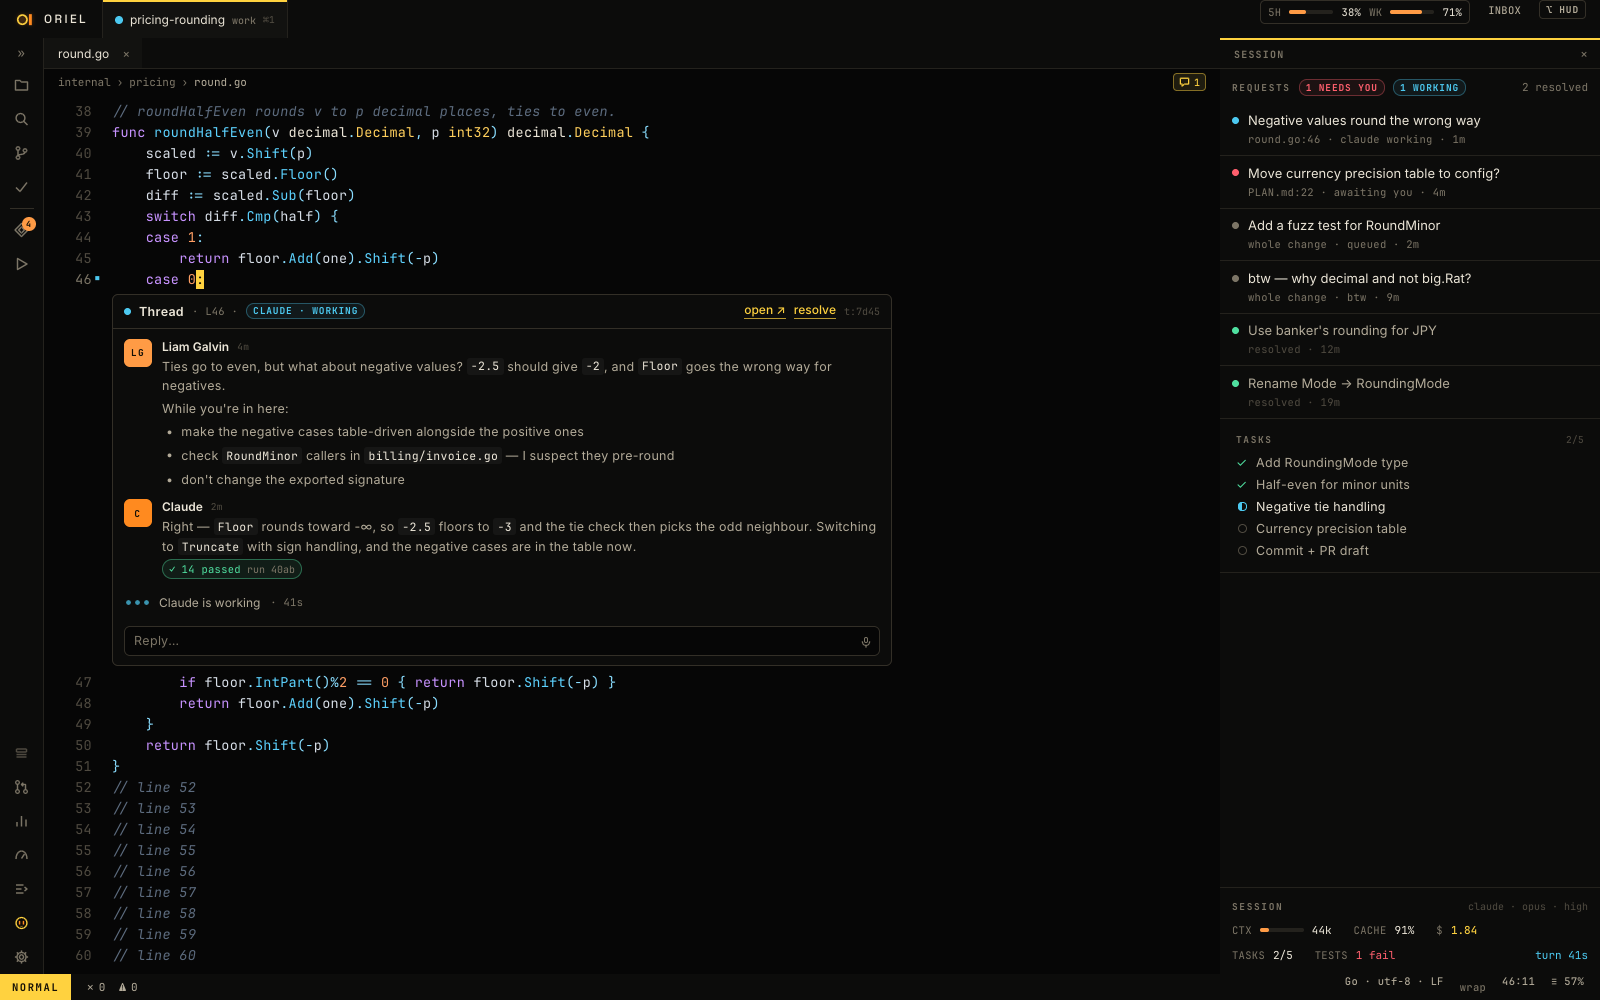
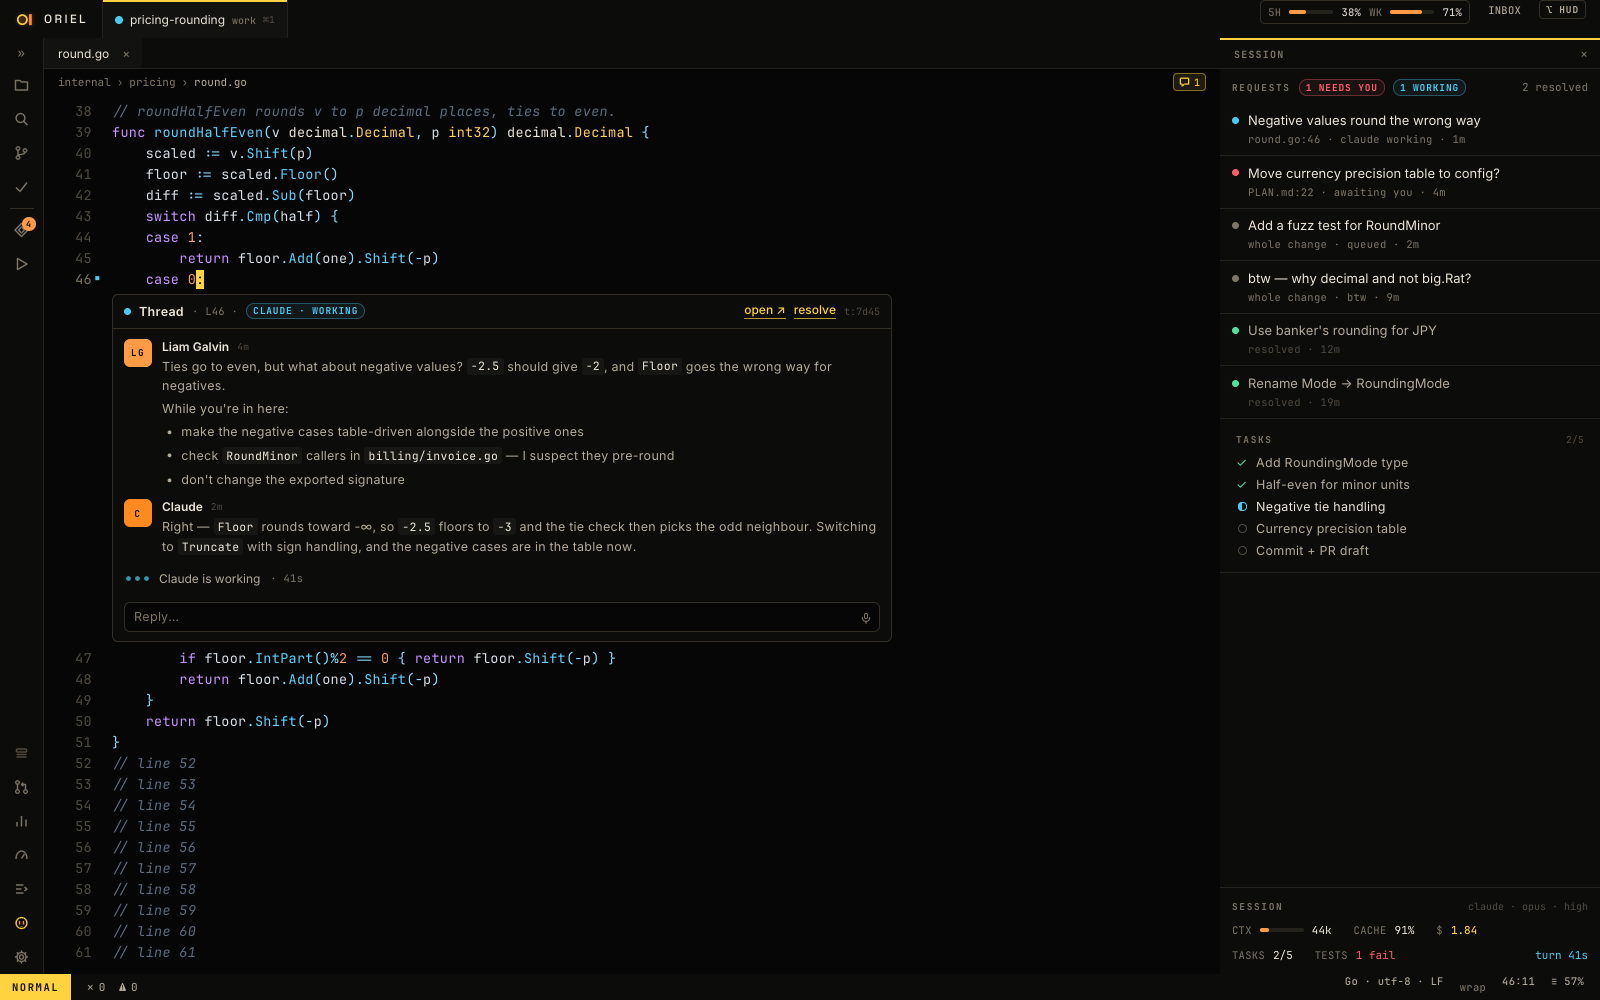
fix(watch): keep Ship fixtures over reads; log failed reads at debug
A Fixture's report was replaced by the next background PR read, and a
source failing on every poll (a session with no GitHub) logged a warning
each time.

Also hold the snapshot tests still: ExplorerScene's inline blame reads a
clock two weeks after its commits rather than the wall clock, and the
ide-thread snapshot drops the run chip request replies no longer show.

Changed region(s): [[0.0625, 0.558, 0.375, 0.961], [0.5312, 0.62, 0.5625, 0.651]]

diff --git a/app/ship/ship.go b/app/ship/ship.go
@@ -89,6 +89,7 @@ type shipReport struct {
 	failed  map[string]string // project → why its last step failed
 	started int               // reads started; a read older than the one last kept is dropped
 	kept    int
+	fixed   bool // a Fixture's: reads don't replace it
 }
 
 func (x *Ship) Manifest() plugin.Manifest { return plugin.Manifest{ID: "ship"} }
@@ -317,8 +318,10 @@ func (x *Ship) reading(id core.SessionID) (*shipReport, int) {
 		r = &shipReport{doing: map[string]string{}, failed: map[string]string{}}
 		x.reports[id] = r
 	}
-	r.loading = true
-	r.started++
+	if !r.fixed {
+		r.loading = true
+		r.started++
+	}
 	return r, r.started
 }
 
@@ -336,6 +339,10 @@ func (x *Ship) readAs(id core.SessionID, r *shipReport, n int, fresh bool) {
 		cancel()
 	}
 	x.mu.Lock()
+	if r.fixed {
+		x.mu.Unlock()
+		return
+	}
 	if n == r.started {
 		r.loading = false
 	}
@@ -747,7 +754,7 @@ func (x *Ship) prChips(se core.SessionState) []registry.Chip {
 type Read = shipRead
 
 // Fixture makes what Ship last read of session id's projects fn of it, loading or not, with no step running or
-// failed: a showcase or a test drawn with no code host.
+// failed, and keeps it over later reads: a showcase or a test drawn with no code host.
 func (x *Ship) Fixture(id core.SessionID, loading bool, fn func([]Read) []Read) {
 	x.mu.Lock()
 	defer x.mu.Unlock()
@@ -755,5 +762,5 @@ func (x *Ship) Fixture(id core.SessionID, loading bool, fn func([]Read) []Read) 
 	if r := x.reports[id]; r != nil {
 		ships = r.ships
 	}
-	x.reports[id] = &shipReport{ships: fn(ships), loading: loading, doing: map[string]string{}, failed: map[string]string{}}
+	x.reports[id] = &shipReport{ships: fn(ships), loading: loading, doing: map[string]string{}, failed: map[string]string{}, fixed: true}
 }

diff --git a/app/apptest/git.go b/app/apptest/git.go
@@ -2,6 +2,9 @@ package apptest
 
 import (
 	"testing"
+	"time"
+
+	"github.com/liamg/oriel/app/editor"
 
 	"github.com/liamg/oriel/gitx/gittest"
 )
@@ -36,10 +39,11 @@ func ExplorerRepo(t *testing.T) *gittest.Repo {
 	return r
 }
 
-// ExplorerScene is the app on ExplorerRepo, its status read.
+// ExplorerScene is the app on ExplorerRepo, its status read, its inline blame's clock two weeks after its commits.
 func ExplorerScene(t *testing.T) (*Scene, *gittest.Repo) {
 	r := ExplorerRepo(t)
 	s := New(t, Options{WorkDir: r.Dir})
+	PluginOf[*editor.GitSigns](s, "gitsigns").Now = func() time.Time { return r.When.Add(14 * 24 * time.Hour) }
 	s.WaitGit()
 	s.Frame()
 	return s, r

diff --git a/app/ship/shipwatch.go b/app/ship/shipwatch.go
@@ -137,9 +137,9 @@ func (x *Ship) readPRs(ctx context.Context, id core.SessionID) {
 	x.mirrorReviews(ctx, id, ships, false)
 	x.mu.Lock()
 	r = x.reports[id]
-	if r == nil || r.loading {
+	if r == nil || r.loading || r.fixed {
 		x.mu.Unlock()
-		return // a whole read is under way: it has the PRs too
+		return // a whole read is under way, with the PRs too; or a fixture's in place
 	}
 	r.ships, r.read = ships, time.Now()
 	seen, merged, asks := x.newPRs(id, ships)

diff --git a/app/watches/watches.go b/app/watches/watches.go
@@ -89,7 +89,7 @@ func (x *Watches) manager(name string) *watch.Manager {
 		start = w.FSWatch
 	}
 	log := x.h.Log()
-	m := watch.New(watch.Options{Name: name, Watch: start, Timing: x.Timing, Log: log.Warn, Polls: kit.PollsOf(x.h)})
+	m := watch.New(watch.Options{Name: name, Watch: start, Timing: x.Timing, Log: log.Debug, Polls: kit.PollsOf(x.h)})
 	on, _ := x.h.WindowFocus()
 	m.SetFocused(on)
 	return m
